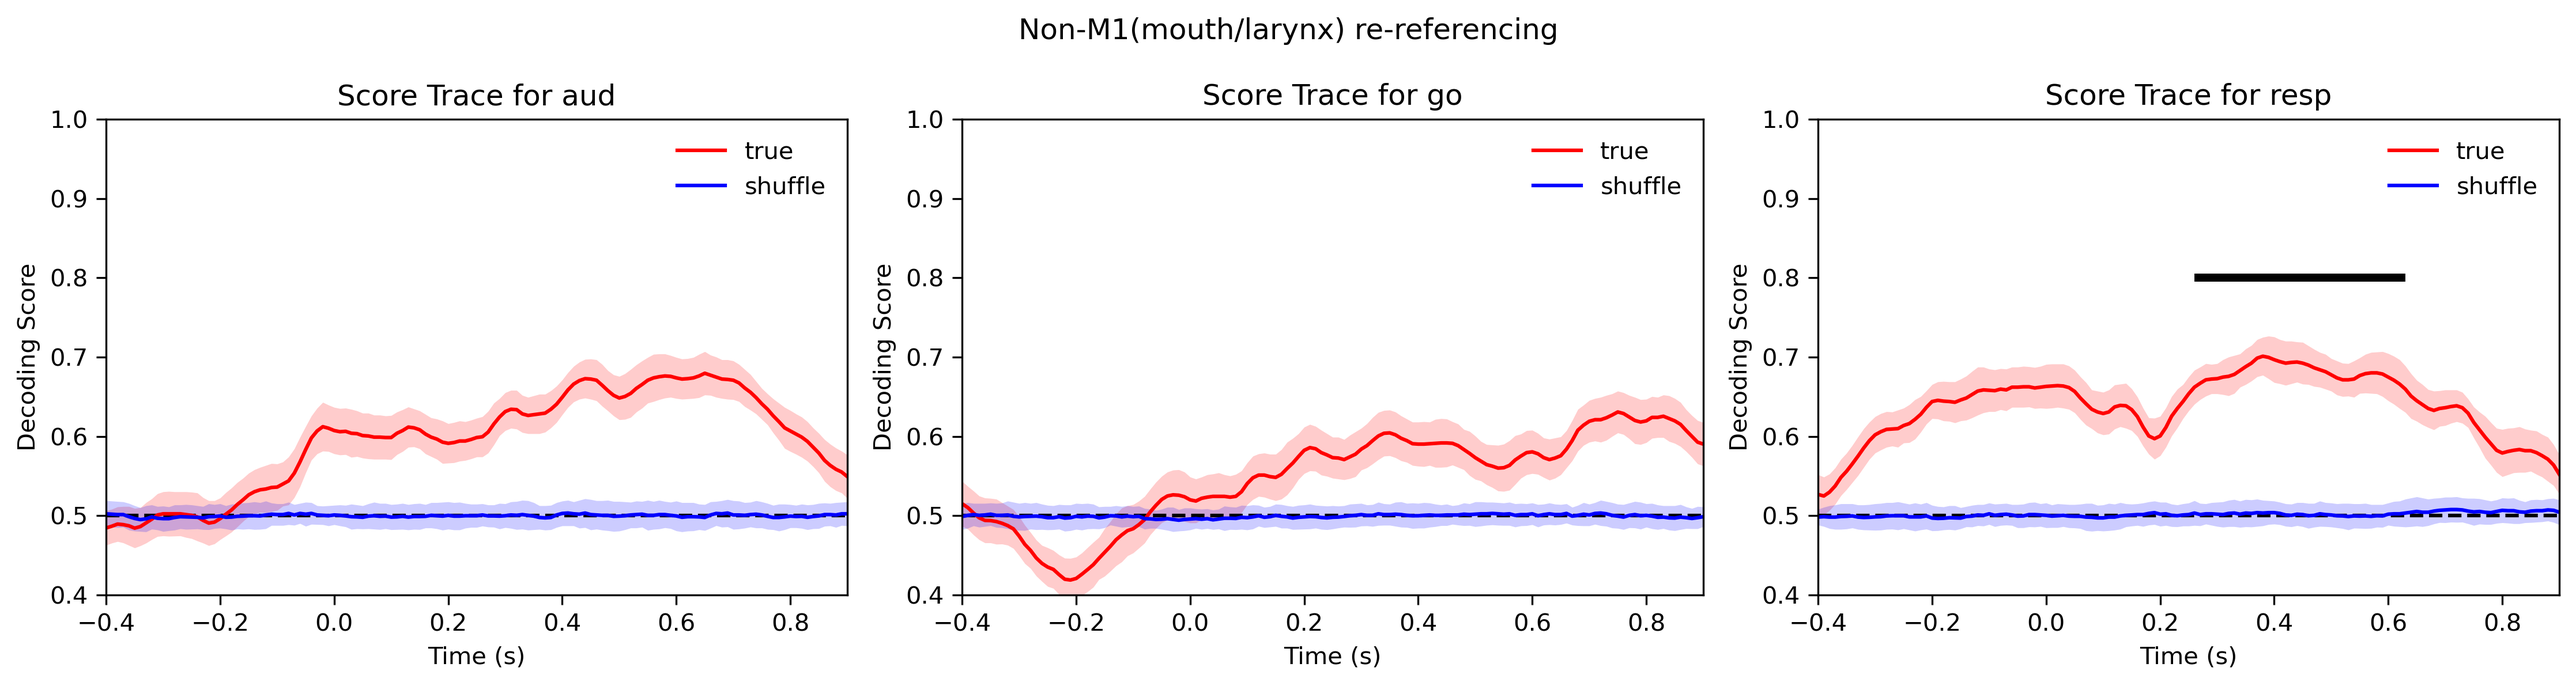
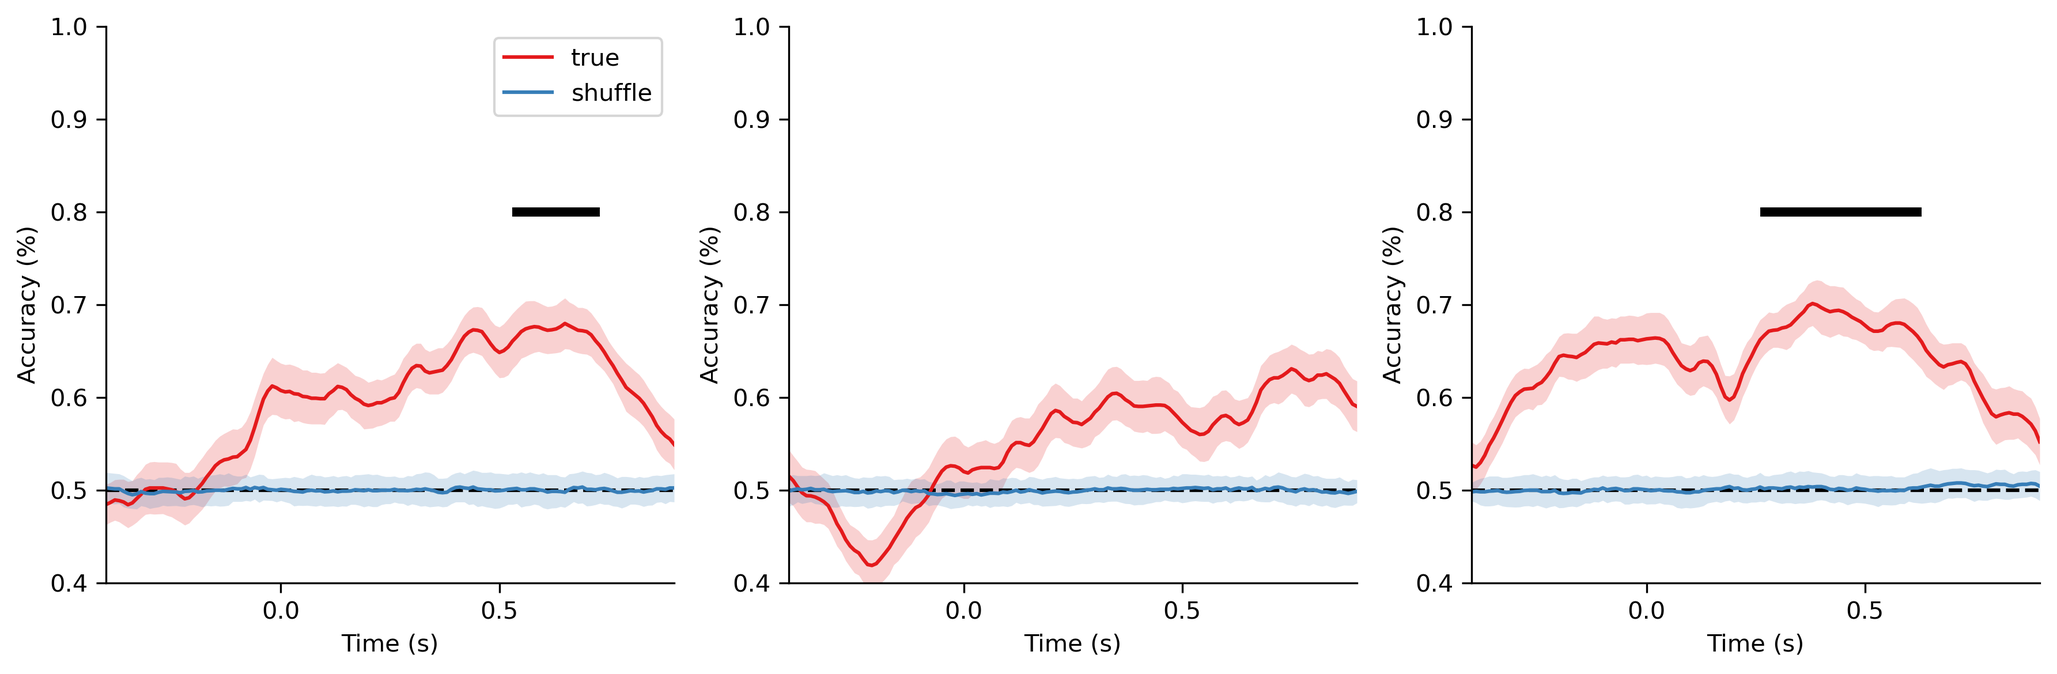
2way decoding

diff --git a/analysis/hippocampus_bipolar.py b/analysis/hippocampus_bipolar.py
@@ -592,13 +592,16 @@ def plot_mean_with_std(data, timepoints, ax, color, label):
     ax.fill_between(timepoints, mean_trace - std_trace, mean_trace + std_trace,
                     color=color, alpha=0.2, linewidth=0)
 
-with open(os.path.join(analysisfolder, 'true_scores_phonemeseq_2way_m1reref_gamma.pkl'), 'rb') as f:
+with open(os.path.join(analysisfolder, 'true_scores_phonemeseq_2way_bipolar.pkl'), 'rb') as f:
     true_scores_dict = pickle.load(f)
-with open(os.path.join(analysisfolder, 'shuffle_scores_phonemeseq_2way_m1reref_gamma.pkl'), 'rb') as f:
+with open(os.path.join(analysisfolder, 'shuffle_scores_phonemeseq_2way_bipolar.pkl'), 'rb') as f:
     shuffle_scores_dict = pickle.load(f)
 
+blue = "#377eb8"
+red = "#e41a1c"
+
 timepoints = np.linspace(-0.4, 0.9, 131)
-fig, axes = plt.subplots(1, 3, figsize=(15, 4))
+fig, axes = plt.subplots(1, 3, figsize=(12, 4))
 bar_width = 0.01  # LDA run every 10ms intervals with 200ms window
 y_position = 0.8
 xlim = (-0.4, 0.9)
@@ -608,25 +611,29 @@ for ax in fig.axes:
 for i, cond in enumerate(true_scores_dict.keys()):
     true_traces = np.mean(np.diagonal(true_scores_dict[cond], axis1=2, axis2=3), axis=2)  # traces of average decoding accuracy
     shuffle_traces = np.mean(np.diagonal(shuffle_scores_dict[cond], axis1=2, axis2=3), axis=2)
-    signif = time_perm_cluster(true_traces, shuffle_traces, 0.05, n_perm = 5000, stat_func=lambda x, y, axis: np.mean(x, axis=axis))
+    signif = time_perm_cluster(true_traces, shuffle_traces, 0.05, n_perm = 10000, stat_func=lambda x, y, axis: np.mean(x, axis=axis))
 
-    plot_mean_with_std(true_traces, timepoints, ax = axes[i], color = 'red', label = 'true')
-    plot_mean_with_std(shuffle_traces, timepoints, ax = axes[i], color = 'blue', label = 'shuffle')
+    plot_mean_with_std(true_traces, timepoints, ax = axes[i], color = red, label = 'true')
+    plot_mean_with_std(shuffle_traces, timepoints, ax = axes[i], color = blue, label = 'shuffle')
 
     # Set labels and title for each subplot
     axes[i].set_xlabel('Time (s)')
-    axes[i].set_ylabel('Decoding Score')
-    axes[i].set_title(f'Score Trace for {cond}')
+    axes[i].set_ylabel('Accuracy (%)')
+    # axes[i].set_title(f'Score Trace for {cond}')
     axes[i].set_xlim(xlim)
     axes[i].set_ylim(ylim)
-    axes[i].legend()
+    axes[i].set_xticks([0,0.5])
+    axes[i].spines['top'].set_visible(False)
+    axes[i].spines['right'].set_visible(False)
+    if i == 0:
+        axes[i].legend(fontsize=10, frameon=True)
     x_axis = np.append(np.arange(xlim[0], xlim[1], bar_width), xlim[1])
     for idx, bool_value in enumerate(signif[0]):
         if bool_value:
             axes[i].barh(y=y_position, width=bar_width, height=0.01, left=x_axis[idx], color='black')
-plt.suptitle('Non-M1(mouth/larynx) re-referencing')
+# plt.suptitle('Non-M1(mouth/larynx) re-referencing')
 plt.tight_layout()
-plt.savefig(os.path.join(analysisfolder, 'phonemeseq_2way_m1reref_gamma.png'), dpi=300,
+plt.savefig(os.path.join(analysisfolder, 'phonemeseq_2way_hippreref_gamma.png'), dpi=300,
                 bbox_inches='tight')
 plt.show()
 
